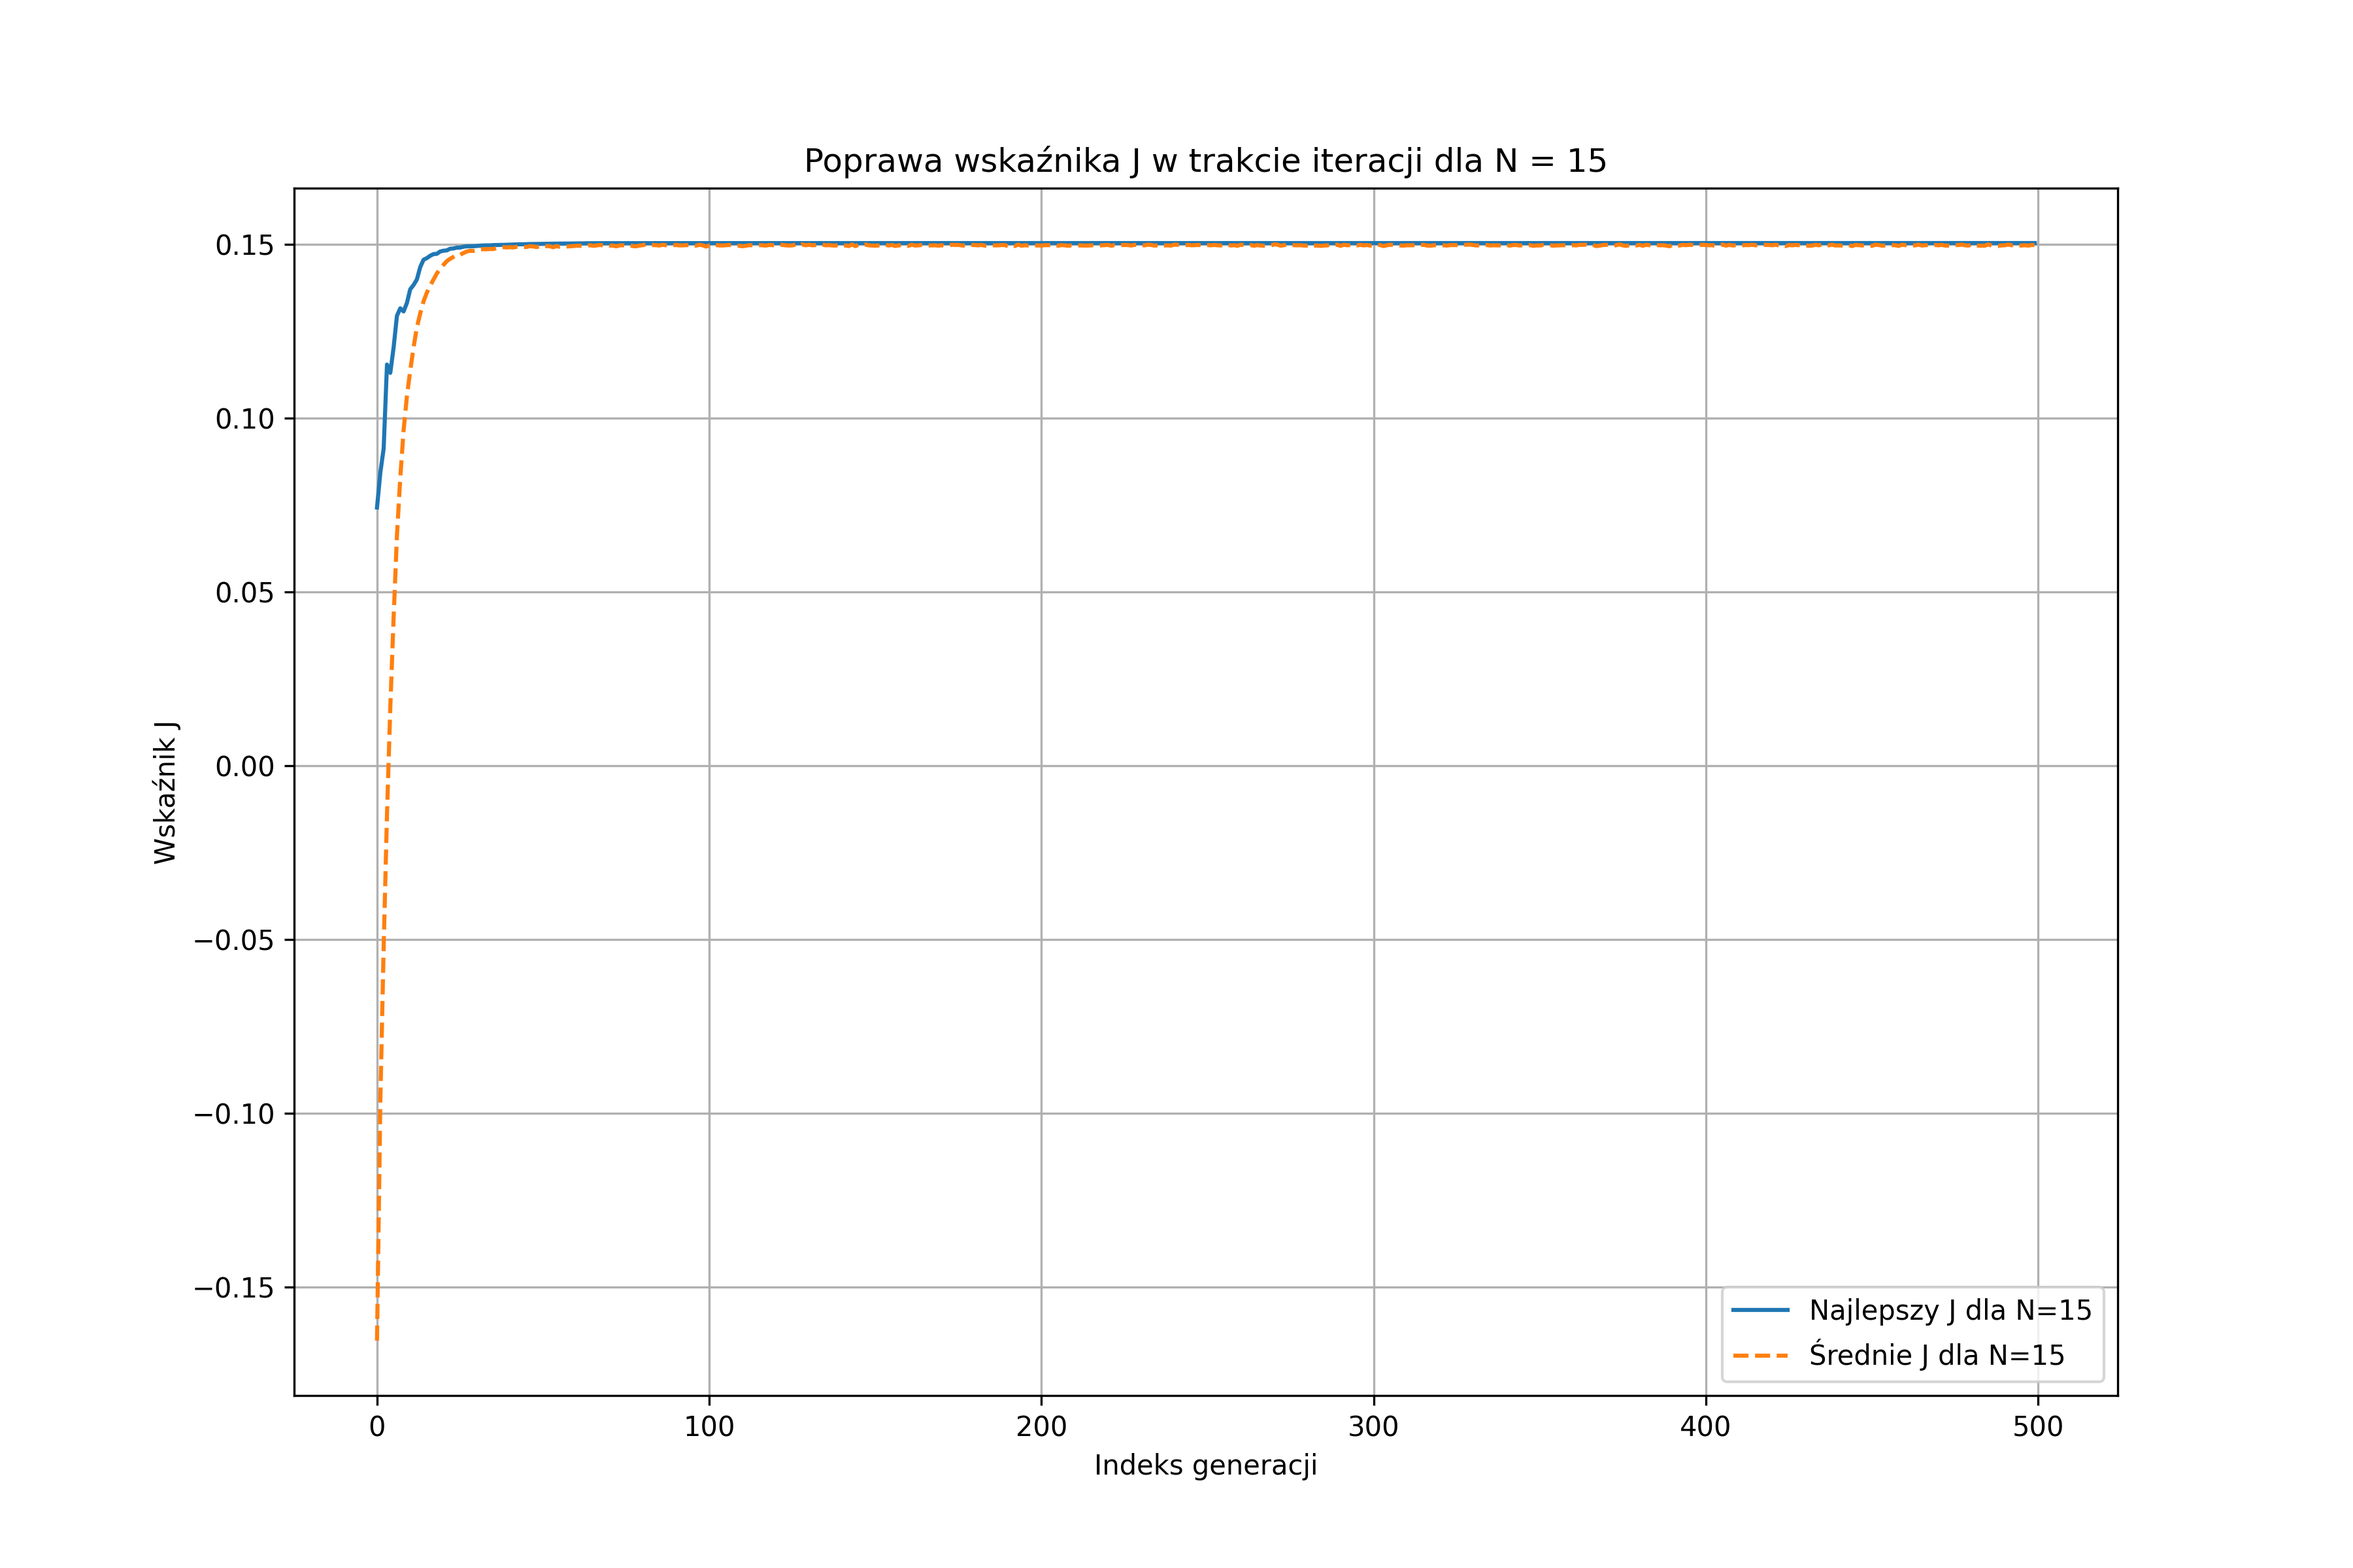
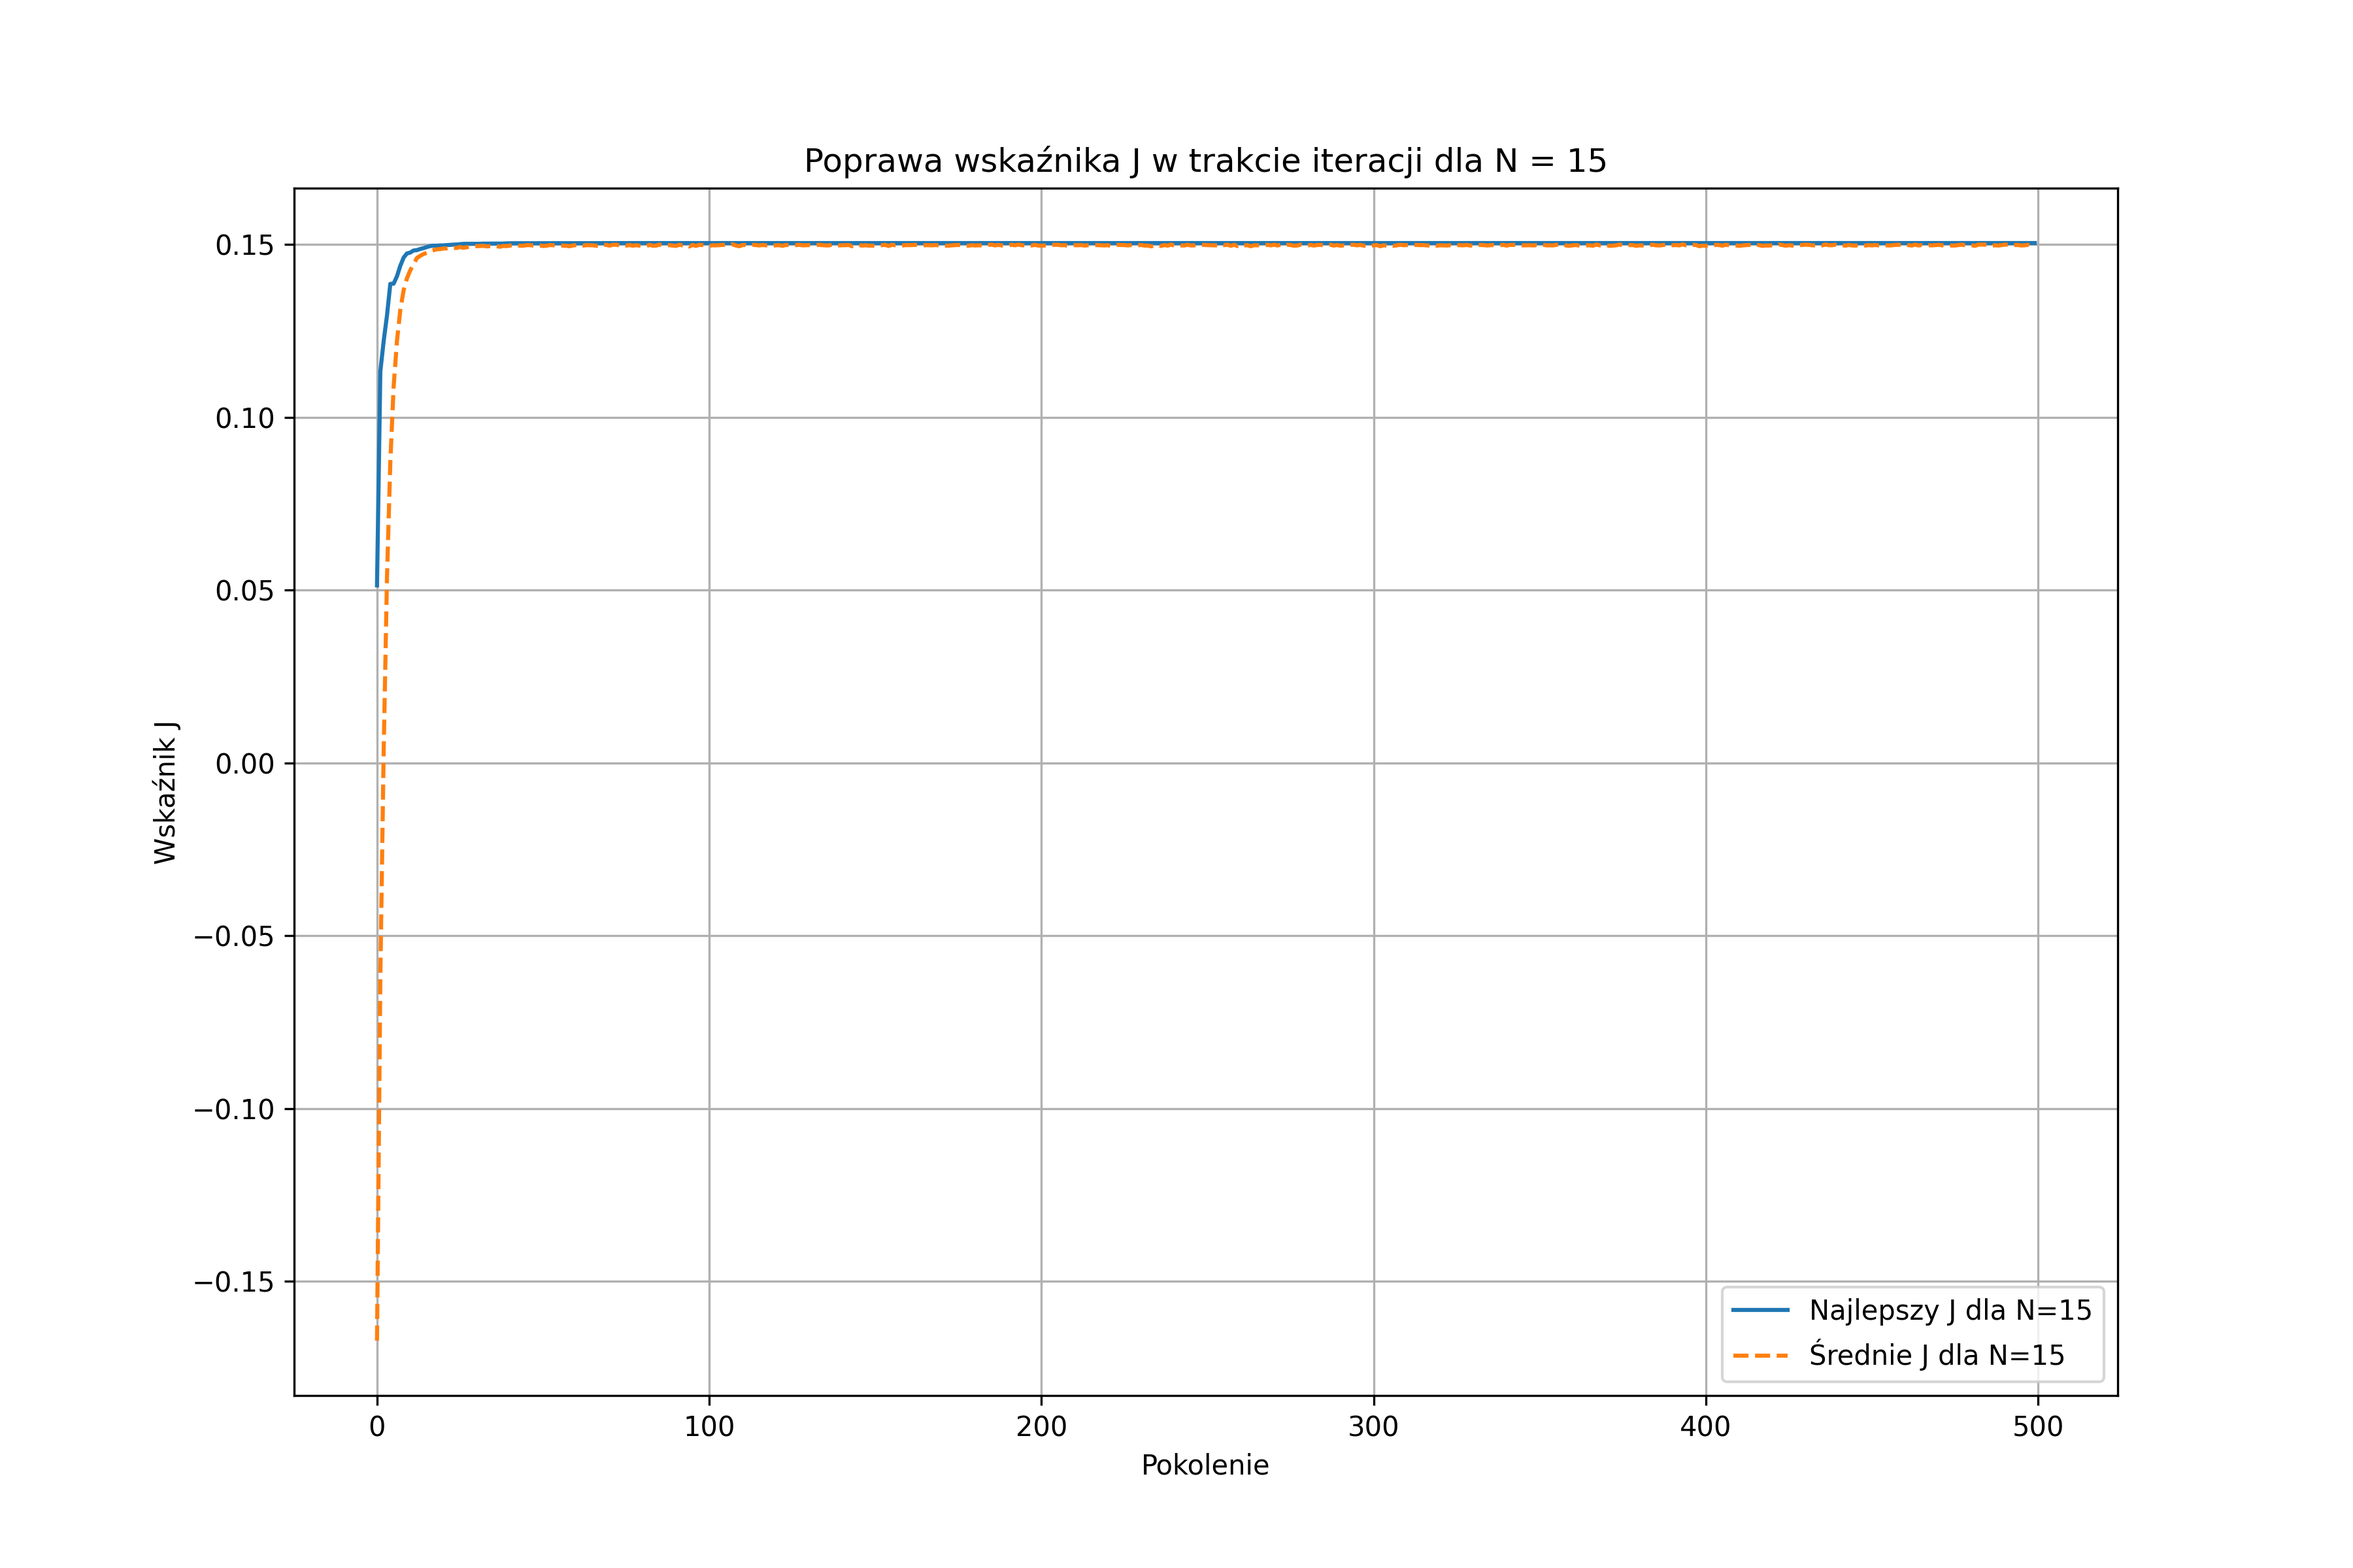
poprawki

diff --git a/5.py b/5.py
@@ -143,7 +143,7 @@ for N in Ns:  # Wybieramy reprezentatywne wartości N
     plt.plot(range(len(avg_fitness_history)), avg_fitness_history, linestyle='--', label=f"Średnie J dla N={N}")
 
     plt.title(f"Poprawa wskaźnika J w trakcie iteracji dla N = {N}")
-    plt.xlabel("Indeks generacji")
+    plt.xlabel("Pokolenie")
     plt.ylabel("Wskaźnik J")
     plt.legend()
     plt.grid()
